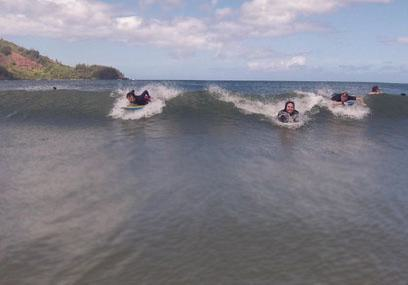
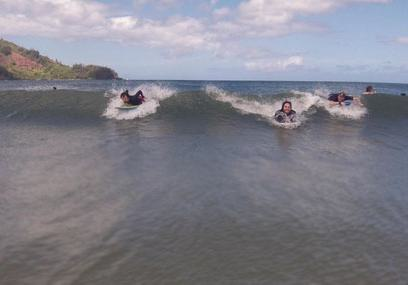
made the runtime much more efficient by avoiding the image update step at every iteration.

Changed region(s): [[0.5, 0.2807, 0.9412, 0.4491], [0.1765, 0.2246, 0.4706, 0.4491], [0.2647, 0.0561, 0.3529, 0.1123]]

diff --git a/SeamCarving.py b/SeamCarving.py
@@ -1,3 +1,9 @@
+# SeamCarving.py
+# CSC 301 Spring 2024
+# Authors: Timur Kasimov, Peter Murphy, Krishna Nayar
+# Date: May 9th, 2024
+
+
 from PIL import Image, ImageDraw
 import numpy as np
 import math
@@ -180,27 +186,26 @@ seam: a vector of coordinates representing the seam to be removed
 OUTPUTS
 image: the reduced image
 """
-def delete_seam(image, seam):
-    # transform the image object into a 3d array
-    img = np.array(image).astype(int)
-    
+def delete_seam(img, seam, energy_matrix):
 
     # create a boolean mask of the img matrix
     mask = np.ones(img.shape, dtype=bool)
+    mask1 = np.ones(energy_matrix.shape, dtype=bool)
 
     # for every pixel in the seam, set the correspoding mask's matrix to false
     for pixel in seam:
         mask[pixel[0],pixel[1], :] = False
+        mask1[pixel[0], pixel[1]] = False
 
 
     # reconstruct the img matrix by omitting the corresponding false values
     # using the mask matrix
     img = img[mask].reshape(img.shape[0], img.shape[1]-1, 3)
+    energy_matrix = energy_matrix[mask1].reshape(img.shape[0], img.shape[1])
     # print(img.shape)
     
-    # put the image object back together with the seam deleted
-    image1 = Image.fromarray(img.astype(np.uint8), mode = "RGB")
-    return image1
+
+    return img, energy_matrix
 
 
 
@@ -218,22 +223,23 @@ def seam_carve(image, desired_width):
     #define number of needed iterations
     iter = image.size[0] - desired_width
 
+    #get energy matrix
+    energy_matrix = get_energy_matrix(image)
+
+    # save initial energy matrix
+    df = pd.DataFrame(data = energy_matrix[1:-1,1:-1])
+    df.to_csv('./energy.csv', sep=',', header=False, index=False)
+
+
+    # transform the image object into a 3d array
+    img = np.array(image).astype(int)
+
     # for loop to delete one seam at a time
     for i in range(iter):
         print("iteration:", i+1)
 
-
-        #get energy matrix
-        energy_matrix = get_energy_matrix(image)
-        if (i == 0):
-            # save initial energy matrix
-            df = pd.DataFrame(data = energy_matrix[1:-1,1:-1])
-            df.to_csv('./energy.csv', sep=',', header=False, index=False)
-
-
         # get solution_matrix and path_matrix
         solution_matrix, path_matrix = auxillary_matrices(energy_matrix)
-
 
         # get the seam to delete
         seam = get_seam(solution_matrix, path_matrix)
@@ -242,12 +248,14 @@ def seam_carve(image, desired_width):
             df = pd.DataFrame(data = seam)
             df.to_csv('./seam1.csv', sep=',', header=False, index=False)
 
-
         # update the image by deleting the seam
-        image = delete_seam(image, seam)
+        img, energy_matrix = delete_seam(img, seam, energy_matrix)
+
+
+    # put the image object back together with the seam deleted
+    image = Image.fromarray(img.astype(np.uint8), mode = "RGB")
     
     return image
-
 
 
 """
@@ -257,8 +265,3 @@ if __name__ == "__main__":
     image = Image.open(FILENAME)
     image = seam_carve(image, DESIRED_WIDTH)
     image.save("FinalImage.jpg")
-
-        
-            
-
-
